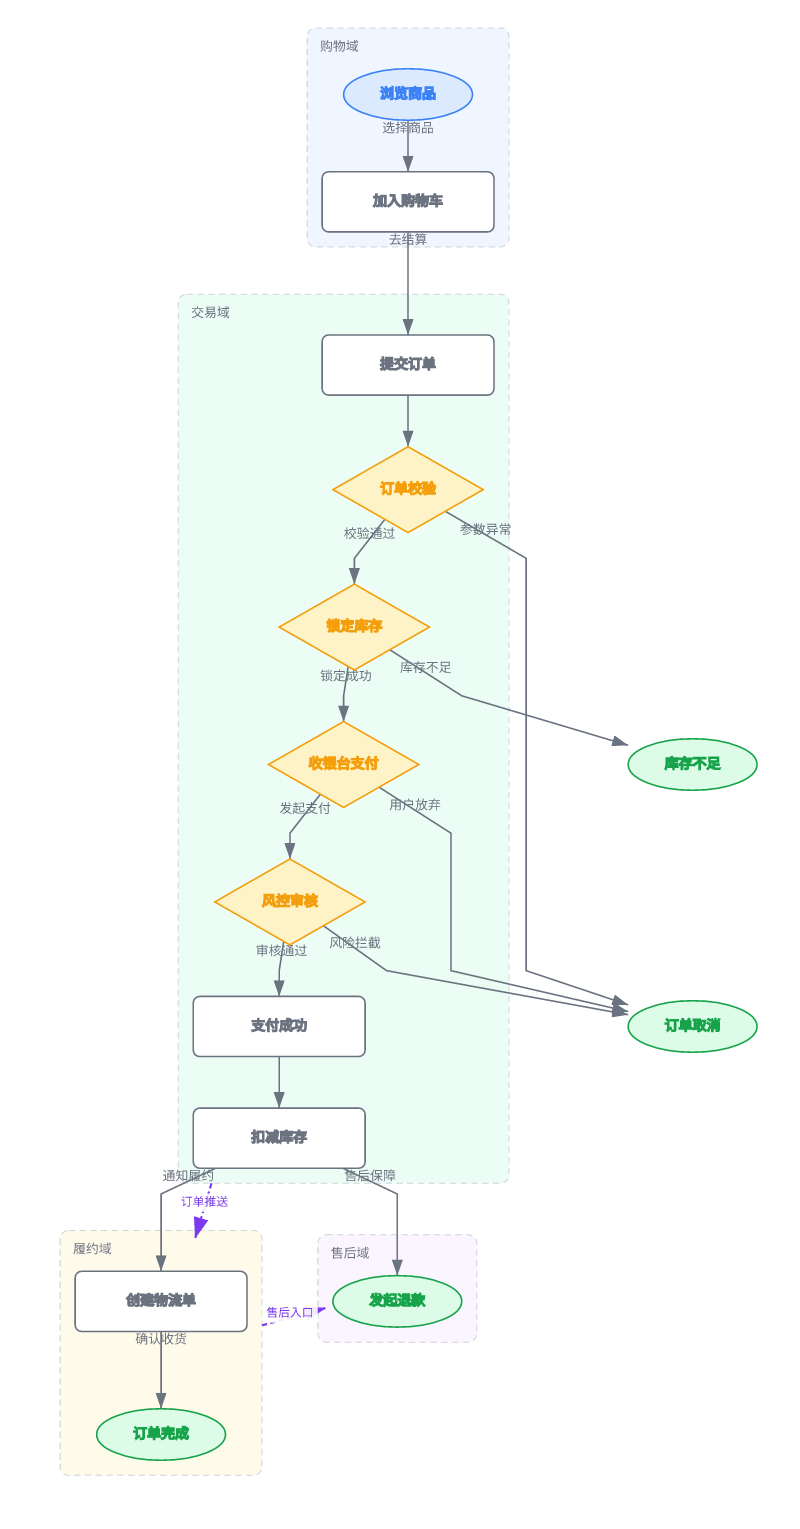
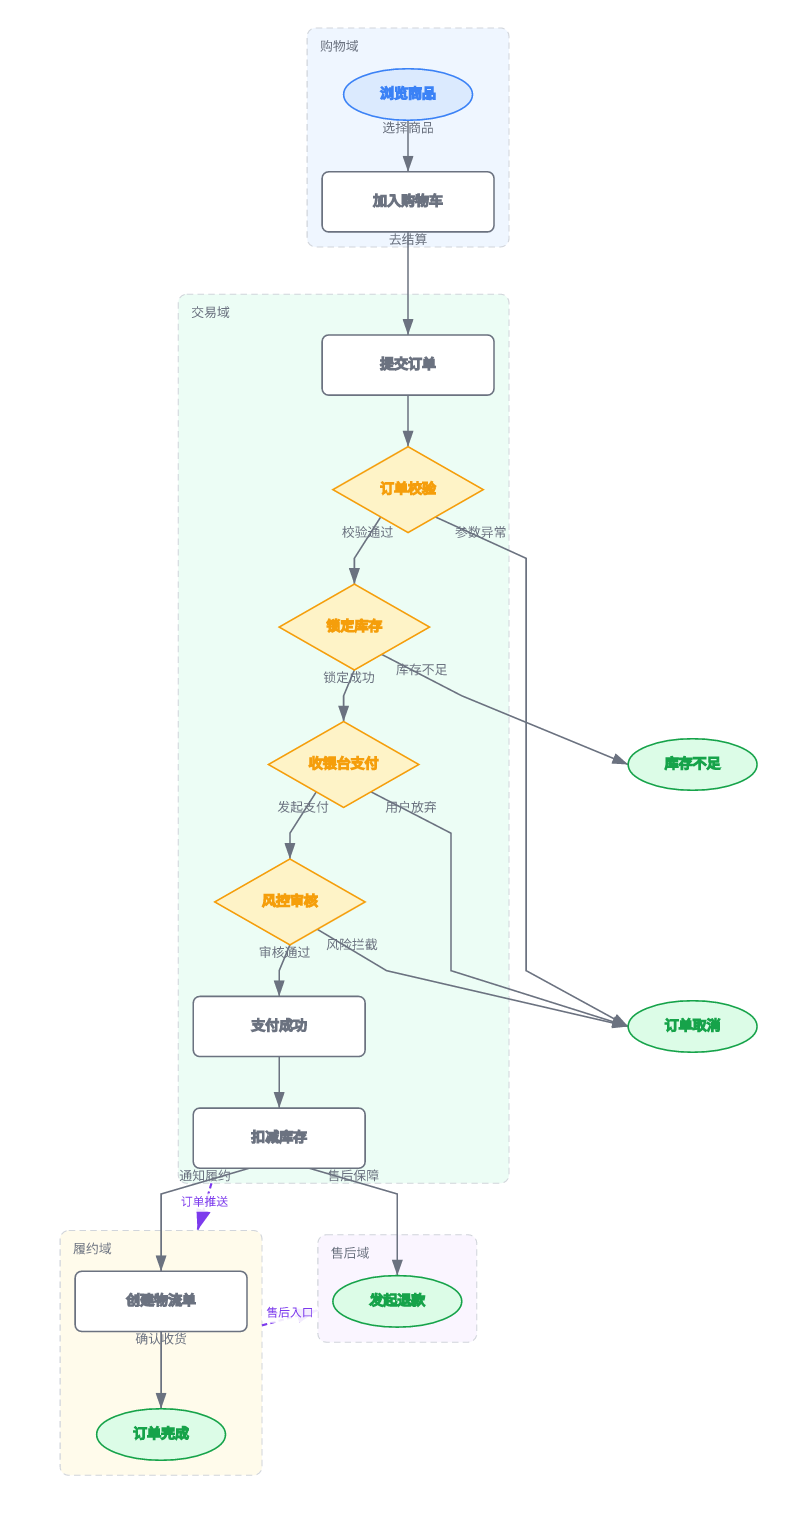
feat(render): anchor-point edges — lines attach to 8 fixed border anchors
Renderer-only concept (DSL untouched): every line endpoint is quantized to
one of 8 fixed directions (every 45deg) before intersecting the node's real
shape border, so connections attach at predictable, tidy anchor points:
rect -> edge midpoints + corners; diamond -> vertices + side midpoints;
cylinder -> arc top/bottom, arc shoulders, side midpoints.

Also fixed two real defects the vision review surfaced while chasing a
misread (pixel-verified: arrow tips sit exactly on borders, resvg renders
markers correctly):
- aggregate edges whose node endpoint used the node CENTER now anchor to
  the node's shape border like regular edges
- aggregate edge endpoints no longer get pushed 8px INTO the group box
  (the old 'arrowhead visibility' push made tips visibly pierce the box)

Verification: all endpoints on shape borders (geometric check across
ecommerce/architecture/er), pixel measurement shows arrow tip 2px outside
the border line, doubao re-checked aggregate edges; 17 render + 93 core
tests green.

diff --git a/packages/render/src/index.ts b/packages/render/src/index.ts
@@ -347,6 +347,11 @@ function renderGeneral(doc: LgdlDocument, layout: LayoutResult, mode: 'default' 
   const mindmapInfo = mode === 'mindmap' ? computeMindmapInfo(doc) : null;
   // state: initial pseudo-state (solid dot + arrow) above the entry state
   const initialId = mode === 'state' ? findInitialState(doc) : null;
+  // anchor to the shape that is ACTUALLY drawn: mindmap renders every node
+  // as a rounded rect, uml-class renders every node as a card — diamonds
+  // only exist in the generic modes
+  const shapeKindFor = (kind: string | undefined): string =>
+    mindmapInfo || mode === 'uml-class' ? 'process' : (kind ?? 'process');
 
   // defs: arrowhead markers (gray for node edges, purple for aggregate edges)
   parts.push(
@@ -476,19 +481,21 @@ function renderGeneral(doc: LgdlDocument, layout: LayoutResult, mode: 'default' 
     // anchors horizontally so the aggregate edge doesn't overlap node edges
     // running down that column
     const offsetX = Math.abs(toCenter.x - fromCenter.x) < 1 && Math.abs(toCenter.y - fromCenter.y) > 40 ? 40 : 0;
-    const src = fromBox ? boxEdgePoint(fromBox, { x: toCenter.x + offsetX, y: toCenter.y }) : nodeCenter(edge.from);
-    const dst = toBox ? boxEdgePoint(toBox, { x: fromCenter.x + offsetX, y: fromCenter.y }) : nodeCenter(edge.to);
+    // node endpoints anchor to the node's real shape border (same anchor
+    // rules as regular edges); group endpoints stay on the group box border
+    const nodeAnchor = (id: string, toward: { x: number; y: number }) => {
+      const nb = layout.nodes.find((n) => n.id === id);
+      if (!nb) return nodeCenter(id);
+      const kind = shapeKindFor(doc.nodes.find((n) => n.id === id)?.kind);
+      return shapeEdgePoint(kind, nb, toward);
+    };
+    const src = fromBox ? boxEdgePoint(fromBox, { x: toCenter.x + offsetX, y: toCenter.y }) : nodeAnchor(edge.from, { x: toCenter.x + offsetX, y: toCenter.y });
+    const dst = toBox ? boxEdgePoint(toBox, { x: fromCenter.x + offsetX, y: fromCenter.y }) : nodeAnchor(edge.to, { x: fromCenter.x + offsetX, y: fromCenter.y });
     // push the target end slightly INTO the box so the arrowhead isn't
     // hidden behind the box border line
-    let dstIn = dst;
-    if (toBox) {
-      const cx = toBox.x + toBox.w / 2;
-      const cy = toBox.y + toBox.h / 2;
-      const dx = cx - dst.x;
-      const dy = cy - dst.y;
-      const len = Math.hypot(dx, dy) || 1;
-      dstIn = { x: dst.x + (dx / len) * 8, y: dst.y + (dy / len) * 8 };
-    }
+    // endpoints stay exactly ON the border anchors — the arrowhead tip
+    // touches the group/node edge (same as regular node edges); no push
+    // INTO the box, so lines never appear to pierce the shape
     const label = edge.label;
     let labelEl = '';
     if (label) {
@@ -506,7 +513,7 @@ function renderGeneral(doc: LgdlDocument, layout: LayoutResult, mode: 'default' 
         text(x, y, label, fontSize, '#7c3aed');
     }
     parts.push(
-      `<g class="lgdl-aggregate-edge"><line x1="${src.x}" y1="${src.y}" x2="${dstIn.x}" y2="${dstIn.y}" stroke="#7c3aed" stroke-width="2" stroke-dasharray="5 3" marker-end="url(#arrowhead-purple)"/>${labelEl}</g>`,
+      `<g class="lgdl-aggregate-edge"><line x1="${src.x}" y1="${src.y}" x2="${dst.x}" y2="${dst.y}" stroke="#7c3aed" stroke-width="2" stroke-dasharray="5 3" marker-end="url(#arrowhead-purple)"/>${labelEl}</g>`,
     );
   }
 
@@ -521,11 +528,6 @@ function renderGeneral(doc: LgdlDocument, layout: LayoutResult, mode: 'default' 
     // starting from a decision floated in blank space).
     const srcNode = layout.nodes.find((n) => n.id === edge.from);
     const dstNode = layout.nodes.find((n) => n.id === edge.to);
-    // anchor to the shape that is ACTUALLY drawn: mindmap renders every node
-    // as a rounded rect, uml-class renders every node as a card — diamonds
-    // only exist in the generic modes
-    const shapeKindFor = (kind: string | undefined): string =>
-      mindmapInfo || mode === 'uml-class' ? 'process' : (kind ?? 'process');
     const srcKind = shapeKindFor(doc.nodes.find((n) => n.id === edge.from)?.kind);
     const dstKind = shapeKindFor(doc.nodes.find((n) => n.id === edge.to)?.kind);
     const trimmed = [...pts];
@@ -672,15 +674,18 @@ function boxEdgePoint(box: { x: number; y: number; w: number; h: number }, towar
 }
 
 /**
- * Point where a ray from `p` toward the box center crosses the node's REAL
- * shape border. dagre only trims endpoints to the bounding rect — diamonds
- * are empty near the rect corners and cylinders are curved at top/bottom,
- * so lines to/from those nodes used to float in blank space. Handled shapes:
- *   - decision: diamond |dx|/(w/2) + |dy|/(h/2) = 1
- *   - entity:   cylinder — straight sides plus elliptical top/bottom arcs
- *               (arc center 10px inside the box, ry = 10, matching the
- *               renderer's cylinder body)
- * All other shapes approximate their bounding rect.
+ * Anchor point where a line from `p` attaches to the node's REAL shape
+ * border. Two ideas combined:
+ *  1. shape fidelity — dagre only trims endpoints to the bounding rect;
+ *     diamonds are empty near the rect corners and cylinders are curved at
+ *     top/bottom, so continuous intersection math is used per shape
+ *     (diamond |dx|/(w/2) + |dy|/(h/2) = 1; cylinder straight sides plus
+ *     elliptical arcs matching the renderer body)
+ *  2. anchors — the approach direction is quantized to 8 fixed directions
+ *     (every 45°), so lines attach to predictable, tidy anchor points on
+ *     the shape border (rect: edge midpoints + corners; diamond: vertices
+ *     + side midpoints; cylinder: arc top/bottom, arc shoulders, side
+ *     midpoints). The DSL is untouched — this is purely a renderer concept.
  */
 function shapeEdgePoint(
   kind: string,
@@ -692,14 +697,16 @@ function shapeEdgePoint(
   const dx = p.x - cx;
   const dy = p.y - cy;
   if (dx === 0 && dy === 0) return { x: cx, y: cy };
+  // quantize the approach direction to the nearest 45° anchor
+  const angle = Math.atan2(dy, dx);
+  const q = Math.round(angle / (Math.PI / 4)) * (Math.PI / 4);
+  const ux = Math.cos(q);
+  const uy = Math.sin(q);
   if (kind === 'decision') {
-    const t = 1 / (Math.abs(dx) / (box.width / 2) + Math.abs(dy) / (box.height / 2));
-    return { x: cx + dx * t, y: cy + dy * t };
+    const t = 1 / (Math.abs(ux) / (box.width / 2) + Math.abs(uy) / (box.height / 2));
+    return { x: cx + ux * t, y: cy + uy * t };
   }
   if (kind === 'entity') {
-    const len = Math.hypot(dx, dy) || 1;
-    const ux = dx / len;
-    const uy = dy / len;
     // straight side region first: y' inside [topArcY, botArcY]
     const topArcY = box.y + 10;
     const botArcY = box.y + box.height - 10;
@@ -727,10 +734,10 @@ function shapeEdgePoint(
     }
     return { x: cx + ux * tSide, y: cy + uy * tSide }; // fallback
   }
-  const tX = dx !== 0 ? box.width / 2 / Math.abs(dx) : Infinity;
-  const tY = dy !== 0 ? box.height / 2 / Math.abs(dy) : Infinity;
+  const tX = ux !== 0 ? box.width / 2 / Math.abs(ux) : Infinity;
+  const tY = uy !== 0 ? box.height / 2 / Math.abs(uy) : Infinity;
   const t = Math.min(tX, tY);
-  return { x: cx + dx * t, y: cy + dy * t };
+  return { x: cx + ux * t, y: cy + uy * t };
 }
 
 /**

diff --git a/packages/render/src/svg.test.ts b/packages/render/src/svg.test.ts
@@ -75,10 +75,10 @@ test('renderSvg draws aggregate edges between groups', () => {
   assert.ok(m, 'line present');
   const y1 = parseFloat(m[2]);
   const y2 = parseFloat(m[4]);
-  // source y ≈ bottom of g1 box (60+48+14=122); target end is pushed 8px
-  // INTO the g2 box past its top border (300-14-24=262) so the arrowhead shows
+  // source y ≈ bottom of g1 box (60+48+14=122); target end sits exactly ON
+  // the g2 top border (300-14-24=262) — anchors, not pushed into the box
   assert.ok(Math.abs(y1 - 122) < 5, `src on g1 bottom border, got ${y1}`);
-  assert.ok(Math.abs(y2 - 270) < 5, `dst just inside g2 top border, got ${y2}`);
+  assert.ok(Math.abs(y2 - 262) < 5, `dst on g2 top border anchor, got ${y2}`);
 });
 
 test('renderSvg renders uml-class cards from structured members', () => {
